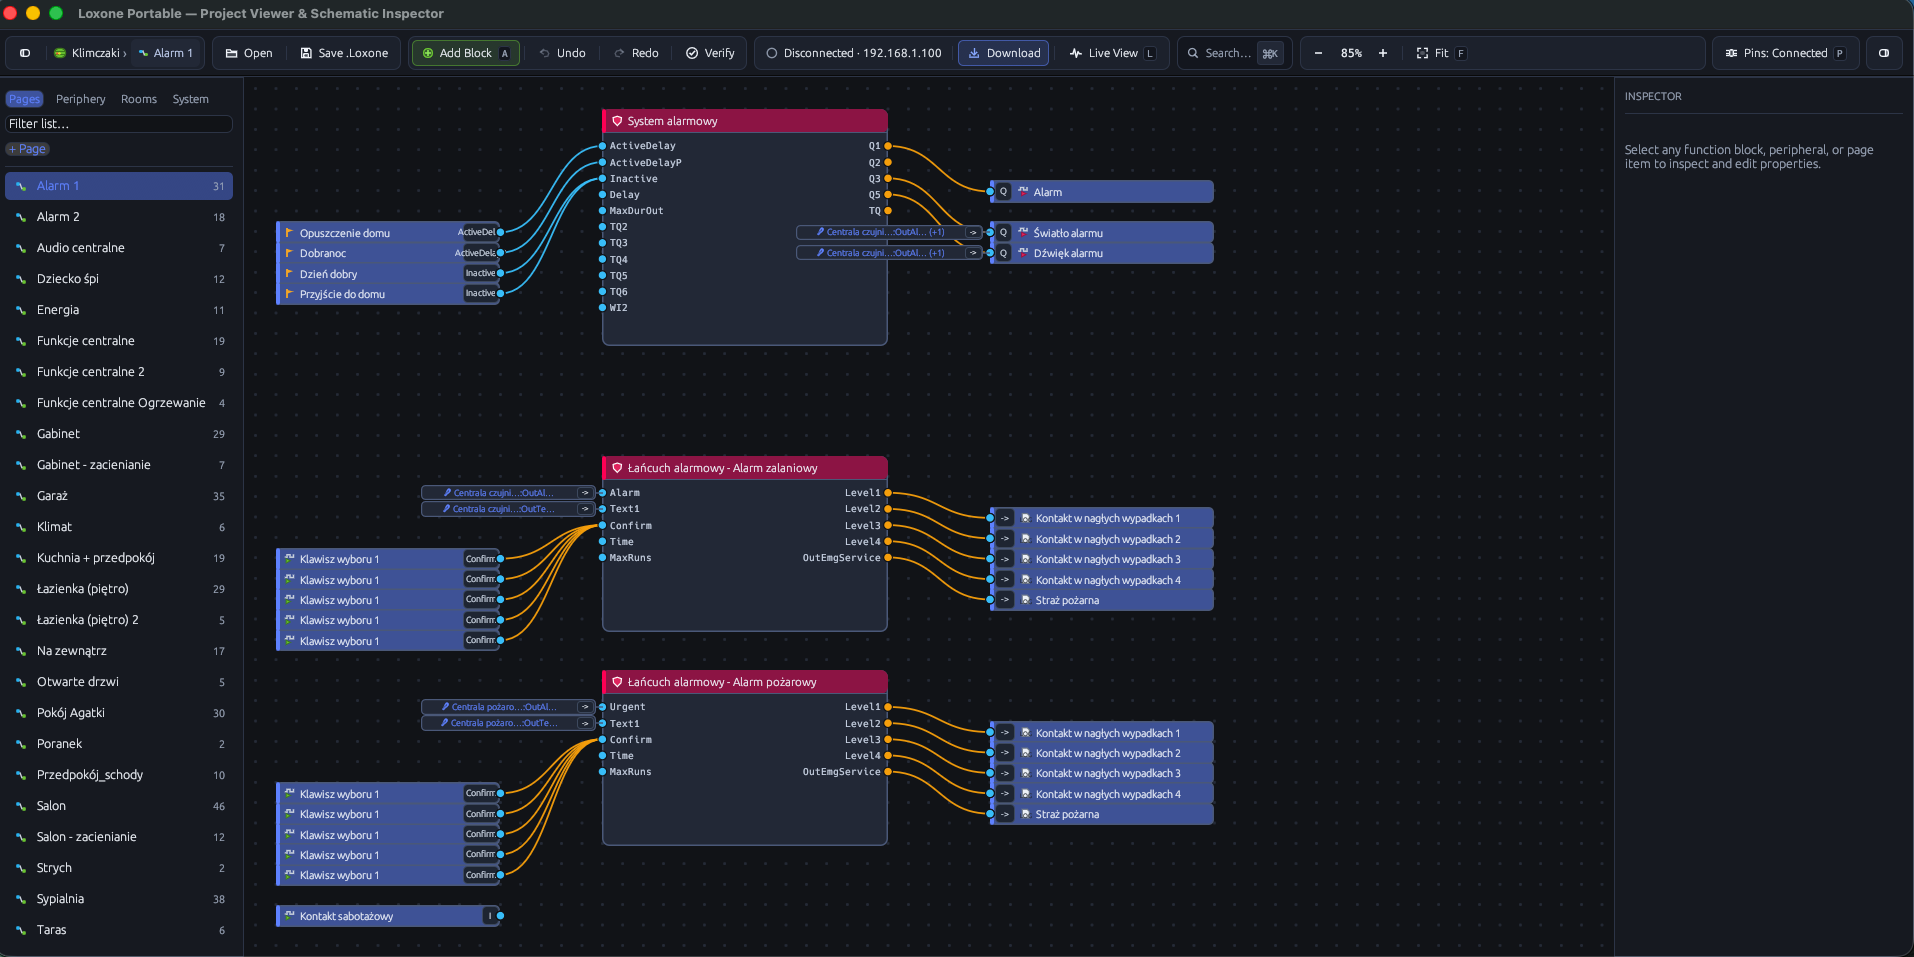
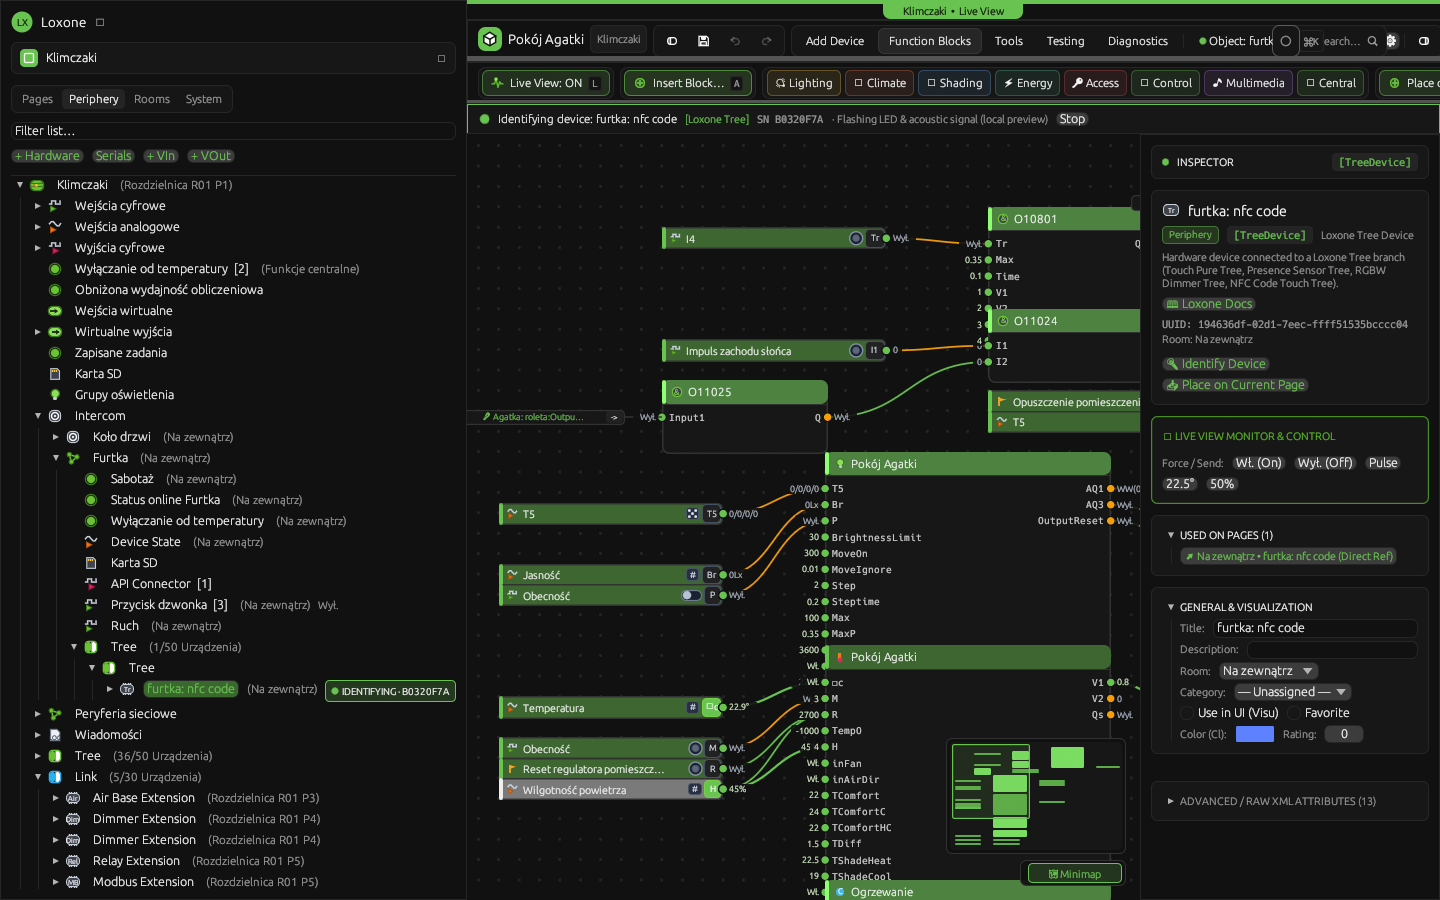
feat(gui): add --screenshot CLI capture and update README screenshots

diff --git a/crates/loxone-gui/src/app.rs b/crates/loxone-gui/src/app.rs
@@ -84,6 +84,34 @@ pub enum PendingDirtyAction {
     CloseWindow,
 }
 
+#[derive(Debug, Clone, Default)]
+pub struct AutoScreenshotConfig {
+    pub output_path: PathBuf,
+    pub tab: Option<LeftTab>,
+    pub page_query: Option<String>,
+    pub identify_uuid: Option<String>,
+    pub enable_live: bool,
+}
+
+pub fn save_color_image_png(image: &egui::ColorImage, path: &Path) -> Result<(), String> {
+    if let Some(parent) = path.parent() {
+        if !parent.as_os_str().is_empty() {
+            let _ = std::fs::create_dir_all(parent);
+        }
+    }
+    let file = std::fs::File::create(path).map_err(|e| e.to_string())?;
+    let w = std::io::BufWriter::new(file);
+    let mut encoder = png::Encoder::new(w, image.width() as u32, image.height() as u32);
+    encoder.set_color(png::ColorType::Rgba);
+    encoder.set_depth(png::BitDepth::Eight);
+    let mut writer = encoder.write_header().map_err(|e| e.to_string())?;
+    let mut bytes = Vec::with_capacity(image.pixels.len() * 4);
+    for c in &image.pixels {
+        bytes.extend_from_slice(&c.to_srgba_unmultiplied());
+    }
+    writer.write_image_data(&bytes).map_err(|e| e.to_string())
+}
+
 pub struct LoxonePortableApp {
     pub project: Option<LoxoneProject>,
     pub base_project: Option<LoxoneProject>,
@@ -135,6 +163,8 @@ pub struct LoxonePortableApp {
         ),
     >,
     pub language: crate::i18n::Language,
+    pub auto_screenshot: Option<AutoScreenshotConfig>,
+    pub auto_screenshot_frame_count: u32,
     pub worker_tx: Sender<MiniserverWorkerEvent>,
     pub worker_rx: Receiver<MiniserverWorkerEvent>,
 }
@@ -193,6 +223,8 @@ impl Default for LoxonePortableApp {
             live_poll_in_flight: false,
             identifying_devices: std::collections::HashMap::new(),
             language,
+            auto_screenshot: None,
+            auto_screenshot_frame_count: 0,
             worker_tx,
             worker_rx,
         }
@@ -200,11 +232,44 @@ impl Default for LoxonePortableApp {
 }
 
 impl LoxonePortableApp {
-    pub fn new(cc: &eframe::CreationContext<'_>, initial_path: Option<PathBuf>) -> Self {
+    pub fn new(
+        cc: &eframe::CreationContext<'_>,
+        initial_path: Option<PathBuf>,
+        auto_screenshot: Option<AutoScreenshotConfig>,
+    ) -> Self {
         apply_minimalist_theme(&cc.egui_ctx);
         let mut app = Self::default();
         if let Some(path) = initial_path {
             app.load_file(&path);
+        }
+        if let Some(cfg) = auto_screenshot {
+            if let Some(tab) = cfg.tab {
+                app.left_tab = tab;
+            }
+            if let Some(pq) = &cfg.page_query {
+                if let Some(proj) = &app.project {
+                    if let Ok(idx) = pq.parse::<usize>() {
+                        if idx < proj.pages.len() {
+                            app.active_page_index = idx;
+                            app.needs_initial_fit = true;
+                        }
+                    } else if let Some(idx) = proj
+                        .pages
+                        .iter()
+                        .position(|p| p.title.to_lowercase().contains(&pq.to_lowercase()))
+                    {
+                        app.active_page_index = idx;
+                        app.needs_initial_fit = true;
+                    }
+                }
+            }
+            if cfg.enable_live {
+                app.execute_top_bar_action(TopBarAction::ToggleLiveView);
+            }
+            if let Some(id_uuid) = &cfg.identify_uuid {
+                app.trigger_device_identification(id_uuid);
+            }
+            app.auto_screenshot = Some(cfg);
         }
         app
     }
@@ -2654,6 +2719,29 @@ impl eframe::App for LoxonePortableApp {
                 } else {
                     self.selected_uuid = Some(ctrl_uuid);
                 }
+            }
+        }
+
+        if let Some(cfg) = self.auto_screenshot.clone() {
+            let captured = ctx.input(|i| {
+                i.raw.events.iter().find_map(|ev| match ev {
+                    egui::Event::Screenshot { image, .. } => Some(std::sync::Arc::clone(image)),
+                    _ => None,
+                })
+            });
+            if let Some(image) = captured {
+                let _ = save_color_image_png(&image, &cfg.output_path);
+                self.auto_screenshot = None;
+                self.allow_close_after_discard = true;
+                ctx.send_viewport_cmd(egui::ViewportCommand::Close);
+            } else {
+                self.auto_screenshot_frame_count += 1;
+                if self.auto_screenshot_frame_count == 5 {
+                    ctx.send_viewport_cmd(egui::ViewportCommand::Screenshot(
+                        egui::UserData::default(),
+                    ));
+                }
+                ctx.request_repaint();
             }
         }
     }

diff --git a/crates/loxone-gui/src/main.rs b/crates/loxone-gui/src/main.rs
@@ -22,20 +22,72 @@ mod tree_panel;
 
 use std::path::PathBuf;
 
-use app::LoxonePortableApp;
+use app::{AutoScreenshotConfig, LoxonePortableApp};
+use tree_panel::LeftTab;
 
-fn resolve_initial_project_path() -> Option<PathBuf> {
-    if let Some(arg) = std::env::args().nth(1) {
-        let p = PathBuf::from(arg);
-        if p.exists() {
-            return Some(p);
+fn parse_cli_args() -> (Option<PathBuf>, Option<AutoScreenshotConfig>) {
+    let mut initial_path: Option<PathBuf> = None;
+    let mut screenshot_path: Option<PathBuf> = None;
+    let mut tab: Option<LeftTab> = None;
+    let mut page_query: Option<String> = None;
+    let mut identify_uuid: Option<String> = None;
+    let mut enable_live = false;
+
+    let mut args = std::env::args().skip(1);
+    while let Some(arg) = args.next() {
+        match arg.as_str() {
+            "--screenshot" => {
+                if let Some(val) = args.next() {
+                    screenshot_path = Some(PathBuf::from(val));
+                }
+            }
+            "--tab" => {
+                if let Some(val) = args.next() {
+                    tab = match val.to_lowercase().as_str() {
+                        "pages" | "program" => Some(LeftTab::Pages),
+                        "periphery" | "devices" => Some(LeftTab::Periphery),
+                        "rooms" | "places" => Some(LeftTab::Rooms),
+                        "system" => Some(LeftTab::System),
+                        _ => None,
+                    };
+                }
+            }
+            "--page" => {
+                if let Some(val) = args.next() {
+                    page_query = Some(val);
+                }
+            }
+            "--identify" => {
+                if let Some(val) = args.next() {
+                    identify_uuid = Some(val);
+                }
+            }
+            "--live" => {
+                enable_live = true;
+            }
+            other if !other.starts_with('-') => {
+                let p = PathBuf::from(other);
+                if p.exists() && initial_path.is_none() {
+                    initial_path = Some(p);
+                }
+            }
+            _ => {}
         }
     }
-    None
+
+    let auto_screenshot = screenshot_path.map(|output_path| AutoScreenshotConfig {
+        output_path,
+        tab,
+        page_query,
+        identify_uuid,
+        enable_live,
+    });
+
+    (initial_path, auto_screenshot)
 }
 
 fn main() -> eframe::Result<()> {
-    let initial_path = resolve_initial_project_path();
+    let (initial_path, auto_screenshot) = parse_cli_args();
     let native_options = eframe::NativeOptions {
         viewport: egui::ViewportBuilder::default()
             .with_inner_size([1440.0, 900.0])
@@ -47,6 +99,12 @@ fn main() -> eframe::Result<()> {
     eframe::run_native(
         "Loxone Portable",
         native_options,
-        Box::new(move |cc| Ok(Box::new(LoxonePortableApp::new(cc, initial_path)))),
+        Box::new(move |cc| {
+            Ok(Box::new(LoxonePortableApp::new(
+                cc,
+                initial_path,
+                auto_screenshot,
+            )))
+        }),
     )
 }

diff --git a/crates/loxone-gui/src/tree_panel.rs b/crates/loxone-gui/src/tree_panel.rs
@@ -520,6 +520,17 @@ pub fn tree_node_subtitle(project: &LoxoneProject, node: &TreeNode) -> Option<St
     None
 }
 
+fn subtree_has_identifying(ctx: &egui::Context, node: &TreeNode) -> bool {
+    for child in &node.children {
+        if device_identify_elapsed(ctx, &child.uuid).is_some()
+            || subtree_has_identifying(ctx, child)
+        {
+            return true;
+        }
+    }
+    false
+}
+
 fn render_identifying_badge(ui: &mut Ui, node: &TreeNode, elapsed_secs: f32) {
     ui.ctx()
         .request_repaint_after(std::time::Duration::from_millis(120));
@@ -661,6 +672,9 @@ fn render_tree_node(
                 ui.label(RichText::new(format!("({})", sub)).size(11.5).color(TEXT_MUTED));
             }
             if let Some(elapsed) = identifying_elapsed {
+                if elapsed < 0.25 {
+                    resp.scroll_to_me(Some(egui::Align::Center));
+                }
                 render_identifying_badge(ui, node, elapsed);
             }
             if placeable {
@@ -692,8 +706,11 @@ fn render_tree_node(
             || node.control_type == "Miniserver"
             || icon == LoxoneIcon::AudioFolder
             || icon == LoxoneIcon::LoxoneLink;
-        let state =
+        let mut state =
             egui::collapsing_header::CollapsingState::load_with_default_open(ui.ctx(), id, default_open);
+        if subtree_has_identifying(ui.ctx(), node) {
+            state.set_open(true);
+        }
 
         let header_res = state.show_header(ui, |ui| {
             ui_icon(ui, icon, 16.0);
@@ -711,6 +728,9 @@ fn render_tree_node(
                 ui.label(RichText::new(format!("({})", sub)).size(11.5).color(TEXT_MUTED));
             }
             if let Some(elapsed) = identifying_elapsed {
+                if elapsed < 0.25 {
+                    resp.scroll_to_me(Some(egui::Align::Center));
+                }
                 render_identifying_badge(ui, node, elapsed);
             }
             if resp.clicked() && !node.uuid.is_empty() {

diff --git a/crates/loxone-gui/src/top_bar.rs b/crates/loxone-gui/src/top_bar.rs
@@ -2166,6 +2166,7 @@ fn render_ribbon_row_2(
 }
 
 #[allow(clippy::too_many_arguments)]
+#[cfg(test)]
 pub fn render_top_bar(
     ctx: &Context,
     project: Option<&LoxoneProject>,

diff --git a/README.md b/README.md
@@ -11,8 +11,8 @@ I often use non-windows OSs and it forced me to use a VM in order to edit anythi
 
 ## Screenshots
 
-### Schematic Canvas & Property Inspector
-![Schematic Page & Property Inspector](docs/sample-page.png)
+### Schematic Canvas, Live View & Property Inspector
+![Schematic Page, Live View & Property Inspector](docs/sample-page.png)
 
 ### Startup Project Selector
 ![Project Selector](docs/project-selector.png)
